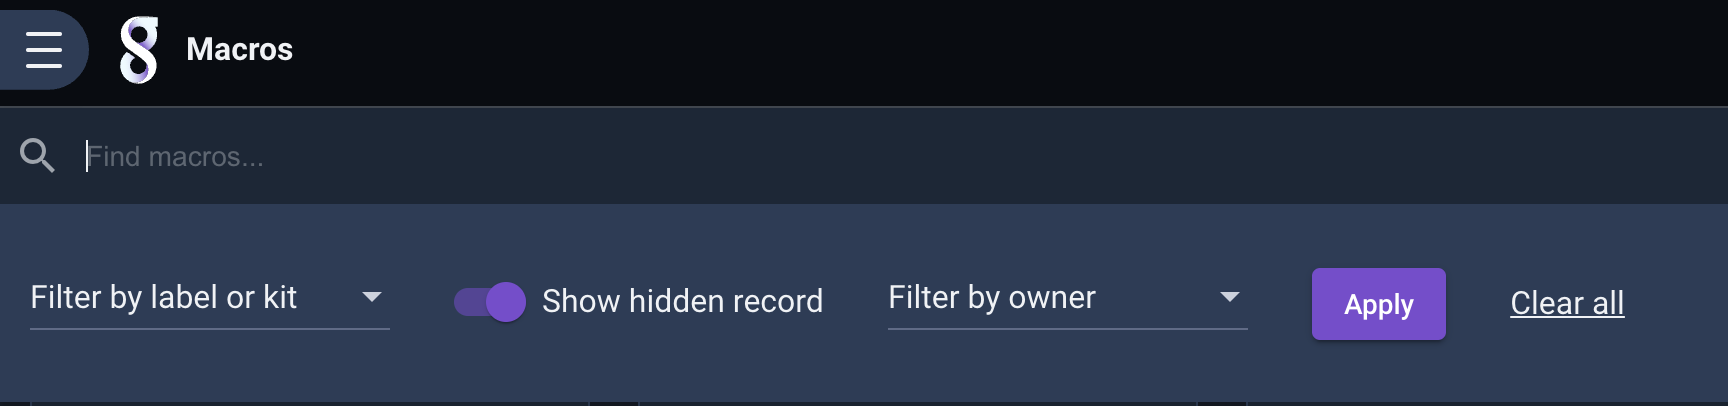
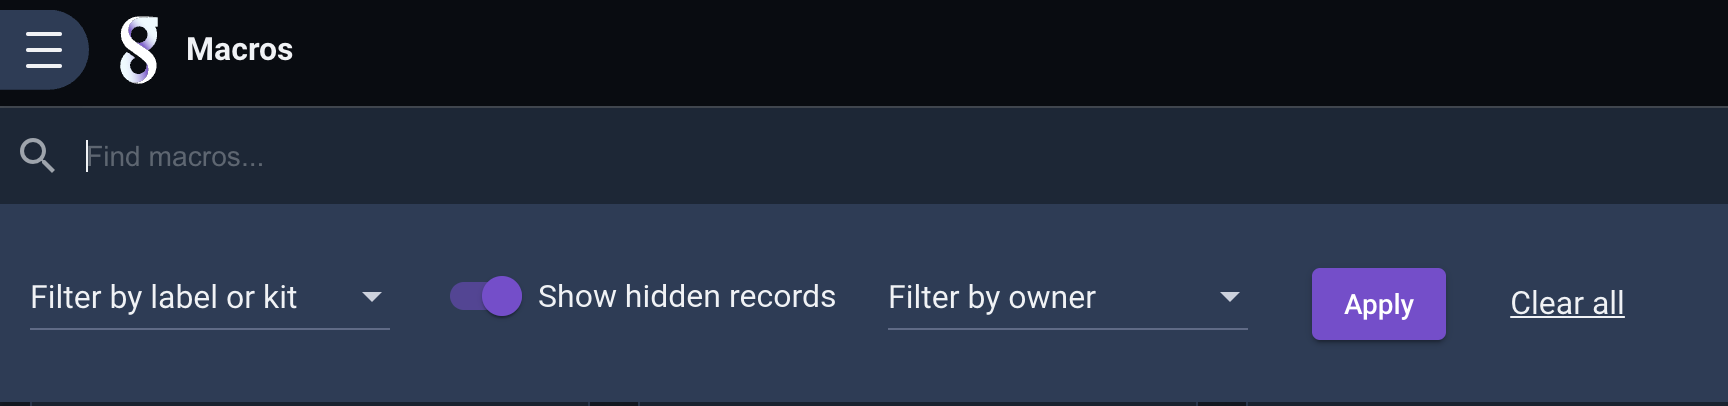
update show hidden records label

Changed region(s): [[0.25, 0.6798, 0.5, 0.798]]

diff --git a/gui/labels/labels.md b/gui/labels/labels.md
@@ -54,7 +54,7 @@ By default, most interfaces will show all objects the user has access to, regard
 
 ### Show hidden
 
-Objects with the special label "hidden" are not displayed by default. This is a convenience function which can keep displays clear of rarely-accessed objects. Click the "Show hidden record" toggle to show hidden objects. In the screenshot below, toggling "Show hidden record" reveals an additional hidden macro:
+Objects with the special label "hidden" are not displayed by default. This is a convenience function which can keep displays clear of rarely-accessed objects. Click the "Show hidden records" toggle to show hidden objects. In the screenshot below, toggling "Show hidden records" reveals an additional hidden macro:
 
 ![](filter-hidden.png)
 
@@ -66,7 +66,7 @@ Gravwell defines a handful of special labels and label prefixes for particular o
 
 ### Hidden
 
-The string "hidden" is a special label; applying it to an object will prevent the object from being displayed by default. To see the object, toggle the "Show hidden record" option in the filter menu, as detailed above.
+The string "hidden" is a special label; applying it to an object will prevent the object from being displayed by default. To see the object, toggle the "Show hidden records" option in the filter menu, as detailed above.
 
 ### Kit Label Prefixes
 
